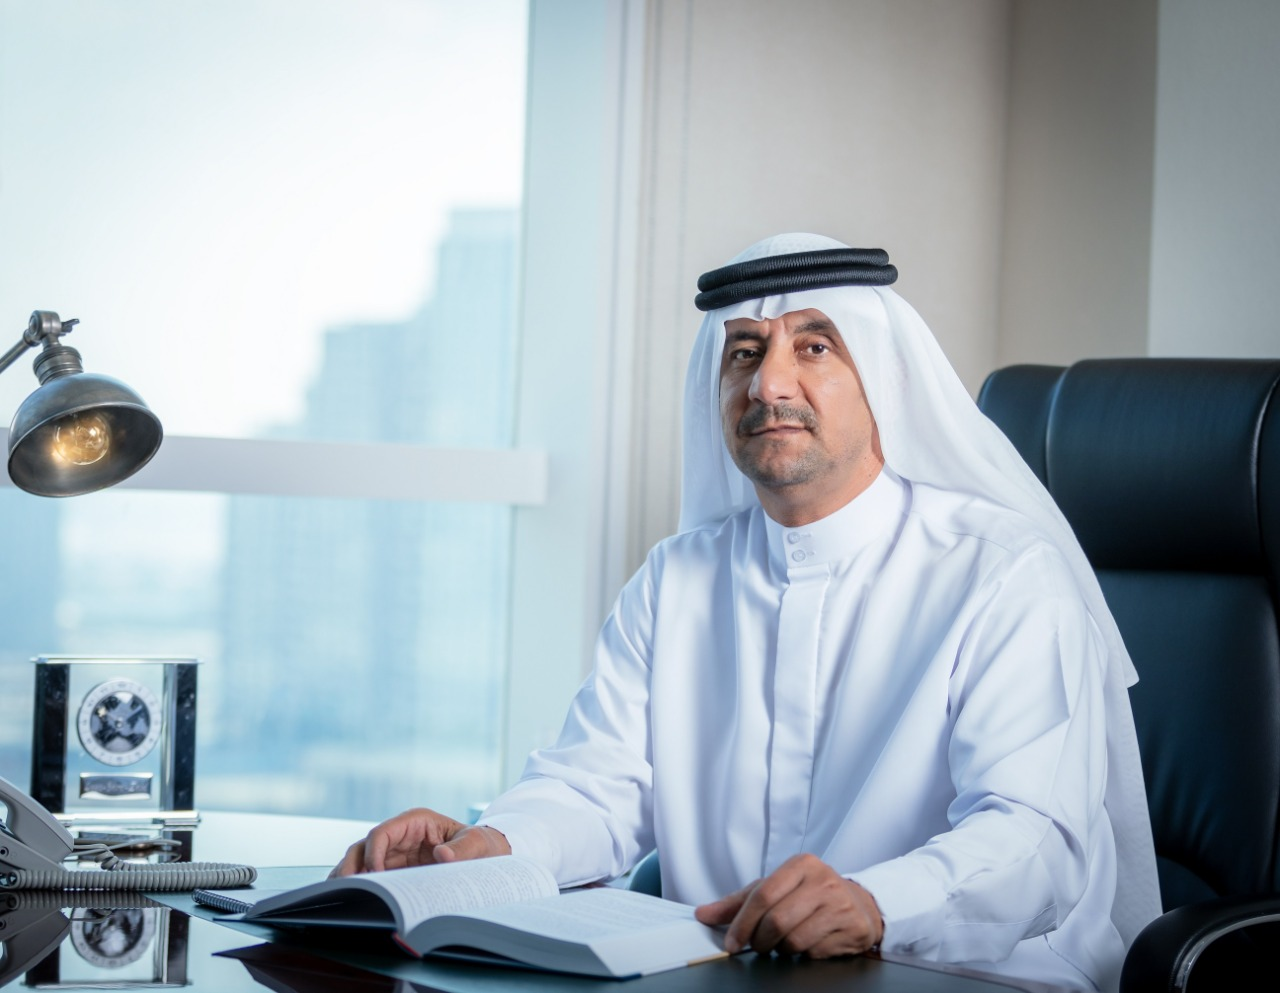
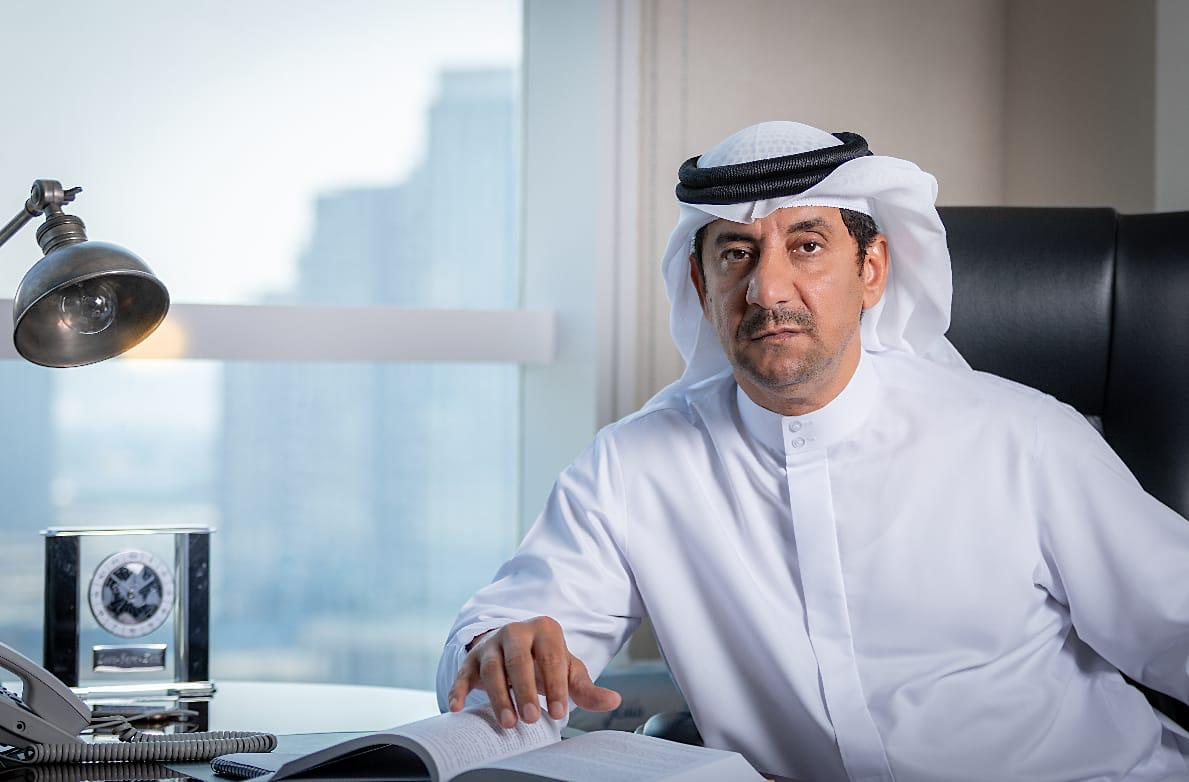
edit2

diff --git a/src/components/About.jsx b/src/components/About.jsx
@@ -23,6 +23,9 @@ import image20 from "../images/abdelbaset.jpg"
 import image21 from "../images/sara.jpg"
 import image22 from "../images/mohamed adel.jpg"
 import image23 from "../images/ashraf.jpg"
+import image24 from "../images/khalifa2.jpg"
+import image25 from "../images/rashed.jpg"
+import image26 from "../images/othman.jpg"
 
 const About = ()=> {
 
@@ -101,14 +104,12 @@ const About = ()=> {
                      <div data-aos="fade-up" data-aos-duration="3000" className="col-md-4 col-sm-6">
                      <div class="our-team">
                     <div className="pic ">
-                        <img src={image}></img>
+                        <img src={image24}></img>
                     </div>
                     <h3 className="title">{t("member0-name")}</h3>
                     <span className="post">{t("job0")}</span>
                     <span className="post">{t("job1")}</span>
                     <ul className="social">
-                        {/* <li><a href="#"><FacebookOutlinedIcon/></a></li> */}
-                        {/* <li><a href="#"><LinkedInIcon/></a></li>  */}
                     </ul>
                 </div>
             </div>
@@ -143,7 +144,7 @@ const About = ()=> {
         <div data-aos="fade-up" data-aos-duration="2000" className="col-md-3 col-sm-6">
             <div class="our-team">
                 <div className="pic">
-                    <img src="{image}"></img>
+                    <img src={image25}></img>
                 </div>
                 <h3 className="title">{t("member3-name")}</h3>
                 <span className="post">{t("job0")}</span>
@@ -237,7 +238,7 @@ const About = ()=> {
         <div data-aos="fade-up" data-aos-duration="2000" className="col-md-3 col-sm-6">
             <div className="our-team">
                 <div className="pic">
-                    <img src="{image12}"></img>
+                    <img src={image26}></img>
                 </div>
                 <h3 className="title">{t("member10-name")}</h3>
                 <span className="post">{t("job3")}</span>

diff --git a/src/index.css b/src/index.css
@@ -322,8 +322,8 @@ code {
 }
 .section-title h5 {
 	max-width: 90%;
-  text-align: justify;
-  word-spacing: -4px;
+  word-break: break-word;
+  word-spacing: 0.1rem;
 }
 .section-title .titlee {
   text-align: center;
@@ -336,7 +336,6 @@ code {
    color: white;
  }
  
-
 @media only screen and (max-width:1080px)
 {
   .howbox{
